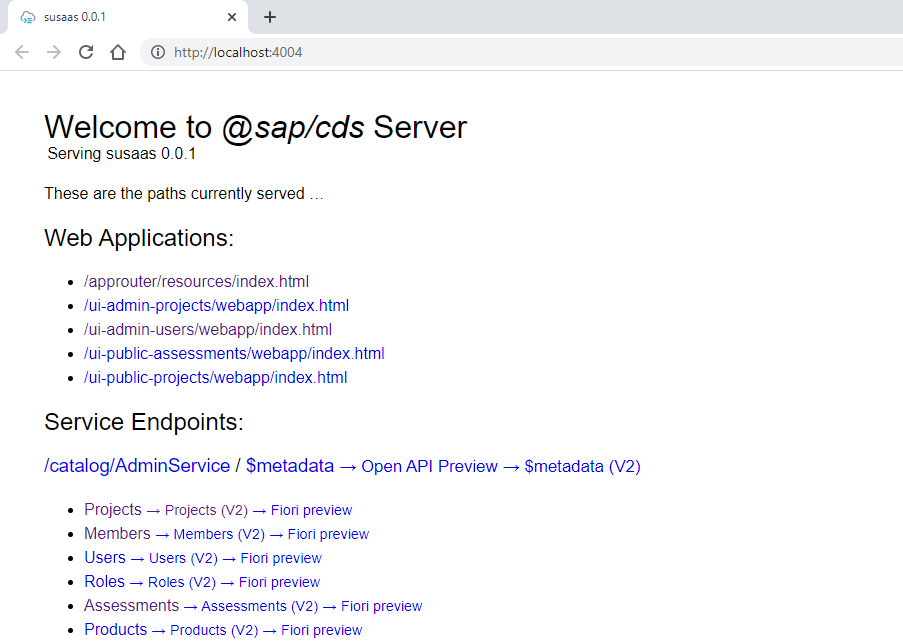
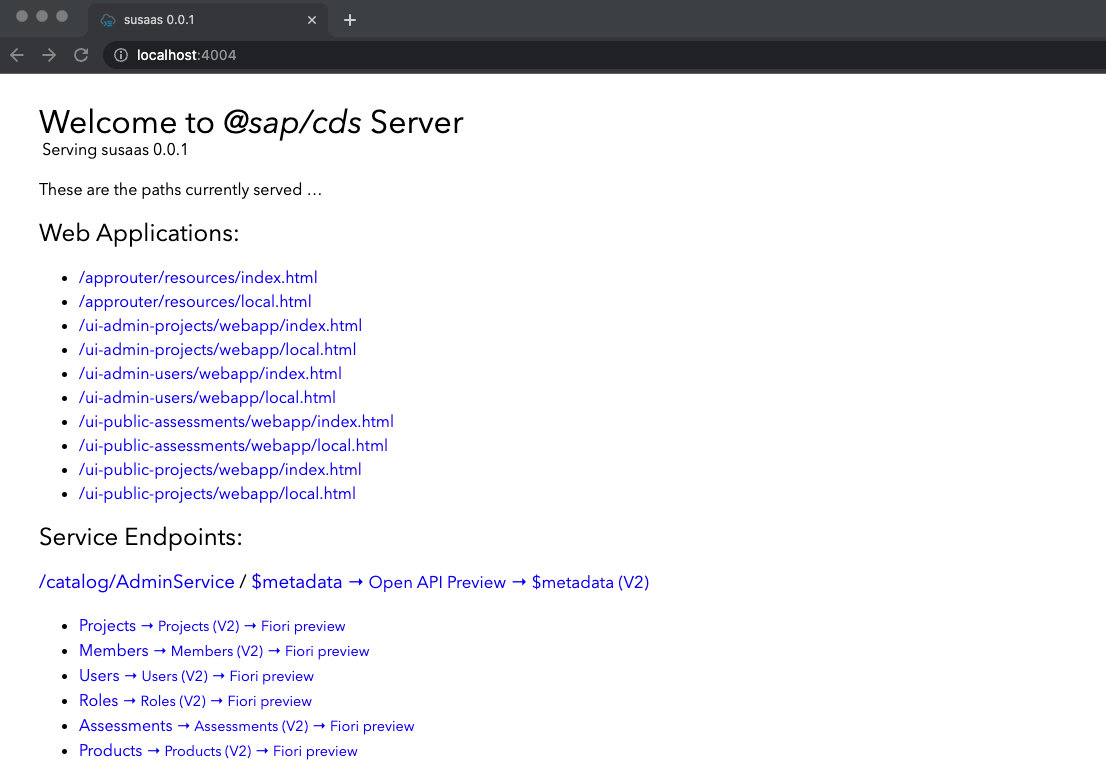
Update docs on hybrid development

Changed region(s): [[0.0, 0.0, 1.0, 0.9938]]

diff --git a/docu/4-expert/local-hybrid-development/README.md b/docu/4-expert/local-hybrid-development/README.md
@@ -157,7 +157,9 @@ cds watch --profile local-with-mtx --open
 cds watch --open
 ```
 
-Your browser should automatically open **http://localhost:4004**. You will see a link */approuter/resources/index.html* pointing to a **Web Application** providing a mocked Fiori Launchpad for opening and testing all provided SAPUI5 apps. Furthermore, you will find links to the standalone SAPUI5 apps if required for testing.
+Your browser should automatically open **http://localhost:4004**. You will see a link */approuter/resources/local.html* pointing to a **Web Application** providing a mocked Fiori Launchpad for opening and testing all provided SAPUI5 apps. Furthermore, you will find links to the standalone SAPUI5 apps if required for testing.
+
+> **Hint** - Please use the **local.html** files in case of simple local testing using cds watch. The **index.html** files are referring to a dynamic **ui5** destination, which is not available in this scenario. In the local.html files, the UI5 resource URL is static. 
 
 [<img src="./images/localwomock.png" width="500"/>](./images/localwomock.png?raw=true)
 
@@ -178,7 +180,7 @@ Using the HTML5 Repo Mock requires a few more steps then using the pure *cds wat
     },
     {
         "name": "ui5",
-        "url": "https://ui5.sap.com"
+        "url": "https://ui5.sap.com/1.108.4"
     }],
     "VCAP_SERVICES": {}
 }
@@ -294,6 +296,8 @@ Feel free to modify this requests and try other endpoints which are served by yo
 
 # Hybrid Development
 
+> **Important** - We are currently analyzing issues that are affecting Hybrid development and testing in **SAP Business Application Studio**. We apologize for any inconvenience caused and appreciate your patience. If you are experiencing similar issues, please be assured that we are working to resolve them as quickly as possible. In the meantime, you can try the proposed hybrid development in Visual Studio Code. Thank you for your understanding.
+
 You can easily test your CAP application using a local database and mock ups. But at some point, you’re going to want to test with real cloud services. Of course, you can always deploy your application to the cloud.
 
 With hybrid testing capabilities, you can stay in your local development environment and avoid the long turnaround times of cloud deployment, and you can selectively decide which services you want to use from the cloud.
@@ -308,9 +312,9 @@ or XSUAA.
 
 - In this sample you will be using [cf DefaultEnv](https://github.com/saphanaacademy/DefaultEnv) plugin so please install it before you start developing in hybrid mode. You can install the **cf DefaultEnv plugin** using the following command.
 
-```sh
-cf install-plugin DefaultEnv
-```
+    ```sh
+    cf install-plugin DefaultEnv
+    ```
 
 - Make sure you checked out the [basic](https://github.com/SAP-samples/btp-cf-cap-multitenant-susaas/tree/basic) or [advanced](https://github.com/SAP-samples/btp-cf-cap-multitenant-susaas/tree/advanced) branch.
 
@@ -412,7 +416,7 @@ With this **destination** property you can connect your UI application to:
     "destinations" : [
         {
             "name": "ui5",
-            "url": "https://ui5.sap.com"
+            "url": "https://ui5.sap.com/1.108.4"
         },
         {
             "name": "susaas-srv-api",     
